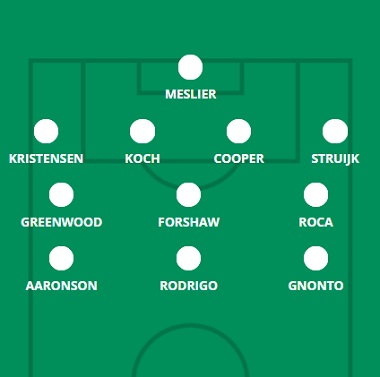
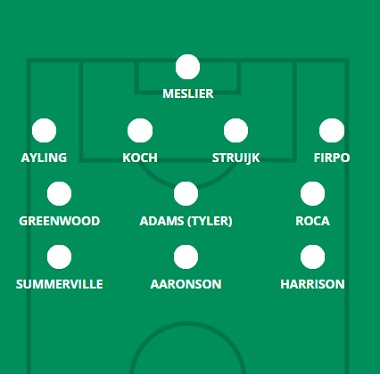
16/20

diff --git a/chelsea.html b/chelsea.html
@@ -63,15 +63,15 @@
     <hgroup>
         <h1> Provável Escalação</h1>
         <h2 class="direita"> por FabioVascão </h2>
-        <h3 class="direita"> Atualizado em 24/Novembro/2022 </h3>
+        <h3 class="direita"> Atualizado em 30/Novembro/2022 </h3>
     </hgroup>
 
     <div class="selecao"><p><b><img src="images/logos/chelsea.png" width="100rem" height="100rem"/> Chelsea</b></p></div>
        
     <div class="escalacao">
         <div class="topo">
-            <h2 class="titulo">Ultimas Notícias</h2> <h4><p> Armando Broja (ACL), N'Golo Kante (coxa), Ruben Loftus-Cheek (panturrilha), Ben Chilwell (coxa) e Wesley Fofana (joelho) estão todos na lista de lesionados do Chelsea, enquanto Hakim Ziyech e Mateo Kovacic não ainda voltou para o oeste de Londres depois de sua longa campanha na Copa do Mundo e também não estará disponível na 17ª rodada. Houve alguns comentários positivos de Graham Potter sobre Reece James, pelo menos, com o chefe do Chelsea dizendo que o lateral esteve envolvido no treinamento e conseguiu 65 minutos em um amistoso contra o Brentford no meio da semana. A ausência de menção a Kepa Arrizabalaga (pé) e Mason Mount (panturrilha) durante o resumo das lesões também é uma boa notícia, com relatos sugerindo que a dupla esteve envolvida em treinamento. Em mais um reforço a Kepa, o treinador do Chelsea disse que Edouard Mendy só teve “alguns dias a treinar connosco”, pelo que o espanhol pode recuperar o seu lugar entre os postes frente aos Cherries. A ausência de Kovacic, Kante e Loftus-Cheek pode persuadir Potter a optar por um meio-campo de três homens para dar a Jorginho mais apoio no meio, com Carney Chukwuemeka e Denis Zakaria como alternativas a Conor Gallagher e Mount. Christian Pulisic é outra opção mais avançada depois de uma Copa do Mundo decente com os EUA, enquanto Lewis Hall, Thiago Silva e Cesar Azpilicueta são possibilidades na defesa. </p></h4><br>
-            <h4><strong>Dúvidas:</strong> Broja, Kanté, Kepa, Chilwell, Chukwuemeka, Fofana, Ziyech e Loftus-Cheek. </h4>
+            <h2 class="titulo">Ultimas Notícias</h2> <h4><p> Reece James (joelho) juntou-se a Armando Broja (ACL), N'Golo Kante (coxa) e Wesley Fofana (joelho) na lista de lesões do Chelsea, enquanto permanece a dúvida sobre a disponibilidade de Ruben Loftus-Cheek (panturrilha) e Ben Chilwell ( isquiotibiais): embora a dupla tenha sido avistada no campo de treinamento no meio da semana, eles ficaram fora dos gramados por quase dois meses e não terão condições físicas para o jogo, mesmo que agora estejam livres de lesões. Dois jogadores que podem voltar à disputa são Hakim Ziyech e Mateo Kovacic, que receberam uma pausa pós-Copa do Mundo de Graham Potter após suas corridas para o play-off do terceiro lugar, mas que agora estão de volta à grama em Cobham. Todos nós sabemos o quanto Potter adora mexer com seu time: na última semana de três jogos na Premier League, apenas quatro jogadores de linha começaram cada partida. Mas os Blues enfrentaram uma reviravolta brutal de domingo-quarta-sábado nas semanas de jogo 11-13, e desta vez eles receberam uma programação muito mais generosa de terça-domingo-quinta-feira, com muito tempo de recuperação antes do confronto com o Manchester City. na Gameweek 19. As mudanças podem ser menos aqui do que após a vitória convincente sobre o Bournemouth, com jogadores como Pierre-Emerick Aubameyang, Conor Gallagher e Trevoh Chalobah esperando que não seja o caso. Potter será forçado a pelo menos uma alteração, sendo Cesar Azpilicueta o favorito para substituir o lesionado James na lateral-direita. </p></h4><br>
+            <h4><strong>Dúvidas:</strong> Broja, Chilwell, Fofana, James (Reece), Kanté e Loftus-Cheek. </h4>
         </div>
         <aside>
             <figure>

diff --git a/leeds.html b/leeds.html
@@ -63,15 +63,15 @@
     <hgroup>
         <h1> Provável Escalação</h1>
         <h2 class="direita"> por FabioVascão </h2>
-        <h3 class="direita"> Atualizado em 24/Novembro/2022 </h3>
+        <h3 class="direita"> Atualizado em 30/Novembro/2022 </h3>
     </hgroup>
 
     <div class="selecao"><p><b><img src="images/logos/leeds.png" width="100rem" height="100rem"/> Leeds</b></p></div>
        
     <div class="escalacao">
         <div class="topo">
-            <h2 class="titulo">Ultimas Notícias</h2> <h4><p> Tyler Adams (suspenso), Stuart Dallas (joelho) e Luis Sinisterra (pé) são os únicos jogadores seniores definitivamente descartados da visita do Manchester City, mas o Leeds tem muitas preocupações em outros lugares. Illan Meslier (doença), Patrick Bamford (quadril/virilha), Crysencio Summerville (pé), Mateusz Klich (doença), Jack Harrison (virilha), Liam Cooper (panturrilha) e Rodrigo (coxa) estão todos marcados para a 17ª rodada, mas Jesse Marsch parecia otimista com a maioria de suas chances, esperando que todos eles pelo menos voltassem a treinar antes do jogo de quarta-feira. Marsch experimentou sua formação durante a Copa do Mundo, mudando de seu habitual 4-2-3-1 para um 4-3-3 nos dois últimos amistosos do meio da temporada. Cooper, Meslier e Rodrigo, você esperaria retornar ao XI inicial se estiverem totalmente aptos para a visita ao City, com uma saída Klich sobre Sam Greenwood e Harrison sobre Willy Gnonto possibilidades menos prováveis em suas respectivas posições. Luke Ayling e Joe Gelhardt estão na fila para substituir o meio-campo e o centroavante, respectivamente, se Cooper e Rodrigo não estiverem disponíveis, enquanto Joel Robles e Kristoffer Klaesson são os substitutos de Meslier se sua febre glandular o tornar incapaz de Reproduzir. Summerville pode estar perto de um retorno, mas depois de três semanas sem futebol, um substituto parece ser o cenário mais provável contra os atuais campeões.</p></h4><br>
-            <h4><strong>Dúvidas:</strong> Dallas, Gray (Archie), Sinisterra, Bamford, Cooper, Harrison, Klich, Meslier, Rodrigo,Summerville e Adams (Tyler). </h4>
+            <h2 class="titulo">Ultimas Notícias</h2> <h4><p> Stuart Dallas (joelho), Archie Gray (tornozelo) e Luis Sinisterra (pé) ainda estão lesionados e Patrick Bamford (quadril/virilha) não retornará aos treinos completos da equipe até a próxima semana, mas Tyler Adams está pelo menos de volta da suspensão depois de perder fora na quarta-feira. O Leeds foi derrotado com a reviravolta mais rápida entre as partidas nas semanas de jogo 17-18, então o período de recuperação de 65 horas pode levar a uma renovação do XI titular. Marsch, de fato, fez seis mudanças em sua escalação na última vez em que encontrou uma reviravolta de menos de três dias completos, então poderíamos ter uma carnificina na ficha de equipe em Tyneside. Crysencio Summerville e Jack Harrison podem voltar aos flancos às custas de dois dos três atacantes que iniciaram o jogo contra o City (Rodrigo, Brenden Aaronson e Willy Gnonto), com Joe Gelhardt também como opção no topo. Mateusz Klich e o retorno de Adams são alternativas descansadas na sala de máquinas, enquanto Luke Ayling, Junior Firpo e Diego Llorente são todas as possibilidades de atuar na defesa, tendo feito isso na já mencionada partida dupla da Rodada 12-13.</p></h4><br>
+            <h4><strong>Dúvidas:</strong> Dallas, Gray (Archie), Sinisterra e Bamford.</h4>
         </div>
         <aside>
             <figure>

diff --git a/united.html b/united.html
@@ -63,15 +63,15 @@
     <hgroup>
         <h1> Provável Escalação</h1>
         <h2 class="direita"> por FabioVascão </h2>
-        <h3 class="direita"> Atualizado em 24/Novembro/2022 </h3>
+        <h3 class="direita"> Atualizado em 30/Novembro/2022 </h3>
     </hgroup>
 
     <div class="selecao"><p><b><img src="images/logos/manchester-united.png" width="100rem" height="100rem"/> Manchester United</b></p></div>
        
     <div class="escalacao">
         <div class="topo">
-            <h2 class="titulo">Ultimas Notícias</h2> <h4><p> Seis dias separam a pressão da Rodada 17 de Erik ten Hag e a partida contra o Nottingham Forest, então não vamos receber as últimas notícias do time do United diretamente da boca do cavalo. O holandês foi de pouca ajuda ao enfrentar a mídia após a vitória da EFL Cup sobre o Burnley, dizendo que não sabia se Harry Maguire (doença) estaria apto ou se Lisandro Martinez e Raphael Varane estariam disponíveis após as férias pós-Copa do Mundo . Não deu nenhuma novidade sobre Diogo Dalot (coxa), que ten Hag disse ter regressado do Qatar com "algumas queixas". Não há muito debate sobre os quatro zagueiros se Varane, Martinez e Dalot ficarem de fora, enquanto Casemiro pode ter que preencher novamente o meio-campo - como fez na quarta-feira - se Maguire também for afastado. Scott McTominay e Fred estarão disponíveis para substituí-los se os serviços de Casemiro forem necessários na defesa. Christian Eriksen, Bruno Fernandes, Marcus Rashford e Anthony Martial parecem ser os escolhidos para jogar mais no ataque (se lesões/doenças permitirem), com Antony no lugar de Alejandro Garnacho, certamente uma mudança que ten Hag está pensando agora que o brasileiro tem meio hora de jogo em seu currículo após um retorno do Catar.</p></h4><br>
-            <h4><strong>Dúvidas:</strong> Dalot, Maguire, Varane e Sancho.</h4>
+            <h2 class="titulo">Ultimas Notícias</h2> <h4><p> A primeira parte da conferência de imprensa de Erik ten Hag continha muito pouco em termos de notícias da equipe, então há todas as chances de obtermos mais atualizações em outra seção embargada após o término do prazo da FPL. Além de Diogo Dalot (coxa) e Jadon Sancho (condição física), nenhum dos quais temos notícias recentes, as ausências notáveis contra o Forest foram Scott McTominay (doente), Victor Lindelof (doente) e Lisandro Martinez (pós-Copa do Mundo descanso). Martinez voltou ao treinamento do time principal em Carrington no dia seguinte, no entanto, pode estar disponível. Uma reviravolta do vencedor da Copa do Mundo provavelmente veria o meio-campo improvisado da semana 17, Luke Shaw, passar para a lateral-esquerda e Tyrell Malacia desistir, com Harry Maguire - ele mesmo voltando de uma doença - outra possibilidade de jogar na mão esquerda lado da defesa central se Martinez não estiver pronto. Alejandro Garnacho e Anthony Elanga são os reforços novatos mais avançados que provavelmente terão muito tempo de jogo como substitutos, pelo menos nas semanas 18 e 19, com as reviravoltas apertadas certamente levando à gestão de minutos para os regulares e a lesão -propenso Anthony Martial em particular. Fred e, se apto, McTominay também são opções na sala de máquinas, caso as pernas cansadas precisem ser controladas durante os jogos.</p></h4><br>
+            <h4><strong>Dúvidas:</strong> Dalot, Martínez, McTominay, Lindelof e Sancho.</h4>
         </div>
         <aside>
             <figure>

diff --git a/fulham.html b/fulham.html
@@ -63,15 +63,15 @@
     <hgroup>
         <h1> Provável Escalação</h1>
         <h2 class="direita"> por FabioVascão </h2>
-        <h3 class="direita"> Atualizado em 24/Novembro/2022 </h3>
+        <h3 class="direita"> Atualizado em 30/Novembro/2022 </h3>
     </hgroup>
 
     <div class="selecao"><p><b><img src="images/logos/fulham.png" width="80rem" height="90rem"/> Fulham</b></p></div>
        
     <div class="escalacao">
         <div class="topo">
-            <h2 class="titulo">Ultimas Notícias</h2> <h4><p> Neeskens Kebano (Aquiles) permanece de fora, enquanto Layvin Kurzawa (músculo), Antonee Robinson (pé) e Manor Solomon (condição física) são preocupações para a viagem ao Crystal Palace. Mas as grandes notícias da equipe que surgiram no acampamento do Fulham na sexta-feira foram sobre Aleksandar Mitrovic, que Marco Silva disse ser uma "dúvida" com o problema no pé que o incomodava antes da Copa do Mundo. Os comentários de Silva ("Se não for pelo Crystal Palace, será pelo próximo, espero") sugerem que há um ponto de interrogação significativo sobre o envolvimento do sérvio no Boxing Day, então Carlos Vinicius pode ter que se apresentar novamente para liderar a linha no Selhurst Park. A possível ausência de Kurzawa e Robinson fará com que Tim Ream fique de prontidão para ocupar a posição de lateral-esquerdo, enquanto isso, uma função que ele desempenhou em circunstâncias semelhantes na oitava rodada e novamente em um amistoso contra o West Ham na semana passada. Há muita competição na ala direita com Dan James e Harry Wilson de volta do dever internacional com o País de Gales, mas, se estamos tentando pegar alguma pista daquele chute final contra os Hammers, podemos ver Bobby DeCordova-Reid jogando à frente de Kenny Tete por aquele flanco.</p></h4><br>
-            <h4><strong>Dúvidas:</strong> Kebano, Kurzawa, Mitrovic, Robinson e Solomon. </h4>
+            <h2 class="titulo">Ultimas Notícias</h2> <h4><p> Neeskens Kebano (Aquiles), Layvin Kurzawa (condição física) e Manor Solomon (condição física) permanecem de fora, mas não houve novas preocupações reveladas na prensa de Marco Silva. Os Cottagers têm duas partidas em pouco mais de 72 horas para negociar, mas com uma pausa de cinco dias após o Boxing Day, uma partida em que os níveis de energia foram preservados contra os nove homens do Crystal Palace, as mudanças devem ser mínimas aqui. Oito jogadores do Fulham foram titulares sempre presentes, de fato, a última vez que encontramos uma semana de três jogos, com mudanças nos flancos a área de risco de rotação mais notável. E há muita competição nas laterais com os até agora nada impressionantes Dan James e Harry Wilson disponíveis para seleção, com o veterano Willian alguém que poderia ver os minutos administrados de uma forma ou de outra no Ano Novo. Tosin Adarabioyo também pode jogar no meio-campo se Issa Diop for considerado incapaz de fazer três partidas em pouco mais de uma semana. Quanto a Aleksandar Mitrovic, Silva disse que o grande sérvio "não está 100% apto", mas acrescentou que está "pronto para começar" novamente contra o Santos.</p></h4><br>
+            <h4><strong>Dúvidas:</strong> Kebano, Kurzawa e Solomon. </h4>
         </div>
         <aside>
             <figure>

diff --git a/liverpool.html b/liverpool.html
@@ -63,15 +63,15 @@
     <hgroup>
         <h1> Provável Escalação</h1>
         <h2 class="direita"> por FabioVascão </h2>
-        <h3 class="direita"> Atualizado em 24/Novembro/2022 </h3>
+        <h3 class="direita"> Atualizado em 30/Novembro/2022 </h3>
     </hgroup>
 
     <div class="selecao"><p><b><img src="images/logos/liverpool.png" width="100rem" height="100rem"/> Liverpool</b></p></div>
        
     <div class="escalacao">
         <div class="topo">
-            <h2 class="titulo">Ultimas Notícias</h2> <h4><p> Arthur (músculo), Diogo Jota (coxa) e Luis Diaz (joelho) são ausências de médio a longo prazo, enquanto Roberto Firmino (panturrilha) e James Milner (coxa) devem ficar de fora pelo menos nos próximos dois jogos e Ibrahima Konate não voltará a treinar até 27 de dezembro, após sua corrida até a final da Copa do Mundo. Trent Alexander-Arnold, que perdeu a eliminatória da EFL Cup com o Manchester City na quinta-feira por causa de um vírus, também precisará ser avaliado antes do Boxing Day, tendo treinado apenas parcialmente na sexta-feira. Alex Oxlade-Chamberlain e Fabio Carvalho parecem prestes a brigar pelo terceiro ponto de ataque em meio à crise de lesões no topo, com o último substituído pelo primeiro no intervalo da derrota na copa de quinta-feira para o City e talvez perdendo a vantagem para a 17ª rodada. uma batalha semelhante na sala de máquinas, com Jordan Henderson de volta da Inglaterra para desafiar Harvey Elliott e oferecer um pouco mais de proteção no lado direito do meio-campo contra um time do Villa impulsionado pela recente mudança gerencial. Joel Matip e Virgil van Dijk parecem ser a dupla de meio-campo em Midlands, mas nem tudo está perdido para o fora de série Joe Gomez, que pode ser solicitado a substituir o lateral-direito se Alexander-Arnold não for 'não considerado apto o suficiente para começar após a doença.</p></h4><br>
-            <h4><strong>Dúvidas:</strong> Firmino, Díaz, Konaté, Milner, Arthur, Diogo Jota, Arnold e Jones.</h4>
+            <h2 class="titulo">Ultimas Notícias</h2> <h4><p> Ibrahima Konate é o único jogador anteriormente indisponível que Jurgen Klopp receberá de volta para a visita ao Leicester, com Roberto Firmino (panturrilha), Curtis Jones (condição física) e James Milner (coxa) ainda a alguns dias de distância e Arthur (músculo), Diogo Jota (coxa) e Luis Diaz (joelho) na lista de ausentes de médio a longo prazo. A nova contratação de Cody Gakpo também é muito improvável de estar envolvida, salvo um milagre com a burocracia. Tudo isso deixa Klopp sem muito por onde escolher, e há sugestões de que ele nomeará um time inalterado para o confronto de sexta à noite. Harvey Elliott, Naby Keita, Joe Gomez, Kostas Tsimikas, Fabio Carvalho e Stefan Bajcetic estarão entre os substitutos novamente se for o caso, mas certamente veremos participações especiais da maioria daqueles contra os Foxes e talvez comece de um punhado na Gameweek 19, já que os Reds têm menos de 68 horas entre os jogos de Leicester e Brentford.</p></h4><br>
+            <h4><strong>Dúvidas:</strong> Firmino, Díaz, Milner, Arthur, Diogo Jota e Jones.</h4>
         </div>
         <aside>
             <figure>

diff --git a/newcastle.html b/newcastle.html
@@ -63,15 +63,15 @@
     <hgroup>
         <h1> Provável Escalação</h1>
         <h2 class="direita"> por FabioVascão </h2>
-        <h3 class="direita"> Atualizado em 24/Novembro/2022 </h3>
+        <h3 class="direita"> Atualizado em 30/Novembro/2022 </h3>
     </hgroup>
 
     <div class="selecao"><p><b><img src="images/logos/newcastle-united.png" width="100rem" height="100rem"/> Newcastle</b></p></div>
        
     <div class="escalacao">
         <div class="topo">
-            <h2 class="titulo">Ultimas Notícias</h2> <h4><p> É improvável que Aleksander Isak desempenhe qualquer papel no programa de jogos festivos, já que sua recuperação de uma lesão na coxa não está indo tão rápido quanto se pensava inicialmente. Paul Dummett (panturrilha) e Emil Krafth (joelho) continuam de fora, entretanto, com a dupla não tendo participado dos amistosos do meio da temporada. Todos os internacionais do Newcastle voltaram ilesos da Copa do Mundo, ao que parece, com o XI titular na eliminatória da copa no meio da semana contra o Bournemouth tendo uma notável semelhança com a forma como esperávamos que os Magpies se alinhassem no Leicester. Também foi, por acaso, o mesmo time que venceu o Chelsea na 16ª rodada, com exceção de Callum Wilson para Chris Wood no topo. Pessoas como Matt Targett, Jonjo Shelvey, Jacob Murphy e Allan Saint-Maximin provavelmente terão que se contentar com papéis substitutos, exceto quaisquer novas lesões, então, com Howe insinuando mais participações especiais para Saint-Maximin ao dizer aos repórteres que o clube estava " construindo-o, fitness sábio".</p></h4><br>
-            <h4><strong>Dúvidas:</strong> Dummett, Krafth e Isak.</h4>
+            <h2 class="titulo">Ultimas Notícias</h2> <h4><p> Eddie Howe confirmou que Alexander Isak (coxa), Jonjo Shelvey (panturrilha) e Emil Krafth (joelho) permanecem afastados, mas a grande notícia que queríamos do chefe do Newcastle dizia respeito a Callum Wilson (doença), sobre quem Howe deu as atualizações mais breves. O técnico dos Magpies disse que Wilson havia "melhorado" e treinado no dia anterior, acrescentando que estava "em um lugar melhor" - mas não se pronunciou sobre se o internacional da Inglaterra seria capaz de começar ou até mesmo ir para o banco contra Leeds. O dinheiro inteligente provavelmente estaria em um começo de Chris Wood e uma participação especial de Wilson no segundo tempo, especialmente com o jogo do Arsenal chegando. Howe fez apenas uma alteração em seus XIs iniciais na última vez em que enfrentou uma semana de três jogos na Premier League, portanto, com os Magpies em alta e tendo 48 horas extras de recuperação em comparação com seus oponentes, não haverá um tonelada de mudanças (se houver) na véspera de Ano Novo. Ryan Fraser, Jacob Murphy e Allan Saint-Maximin são alternativas no flanco se os minutos precisam ser administrados, com Matt Targett também fresco na lateral-esquerda, mas Howe pode procurar fazer mudanças no jogo em vez de interromper uma fórmula vencedora de começo.</p></h4><br>
+            <h4><strong>Dúvidas:</strong> Dummett, Krafth, Shelvey, Wilson e Isak.</h4>
         </div>
         <aside>
             <figure>

diff --git a/bourne.html b/bourne.html
@@ -63,15 +63,15 @@
     <hgroup>
         <h1> Provável Escalação</h1>
         <h2 class="direita"> por FabioVascão </h2>
-        <h3 class="direita"> Atualizado em 24/Novembro/2022 </h3>
+        <h3 class="direita"> Atualizado em 30/Novembro/2022 </h3>
     </hgroup>
 
     <div class="selecao"><p><b><img src="images/logos/bourne.png" width="100rem" height="100rem"/> Bournemouth</b></p></div>
        
     <div class="escalacao">
         <div class="topo">
-            <h2 class="titulo">Ultimas Notícias</h2> <h4><p> Vítimas de lesões de longa data, Murara Neto e David Brooks (ambos na coxa) permanecem de fora, mas Lloyd Kelly está apto novamente, com uma chamada a ser feita em seu envolvimento contra o Chelsea. Um vírus varreu o acampamento Cherries antes do empate da EFL Cup contra o Newcastle na terça-feira, com Joe Rothwell e Ben Pearson verificados como dois dos jogadores afetados, mas nenhuma atualização fornecida sobre eles desde então. Jefferson Lerma e Marcus Tavernier também perderam o jogo da copa com lesões leves, mas Gary O'Neil disse que o primeiro "deve estar bem" na imprensa de sexta-feira, tendo "mais chances" do que Tavernier, que "não é tão avançado". Ryan Christie estará disponível para substituir Tavernier caso Tavernier perca e O'Neil mantenha a configuração 4-4-2 que ajudou a derrotar o Everton por 3-0 na Rodada 16, embora o agora chefe permanente do Cherries possa jogar Jack Stacey ou Ryan Fredericks e prossiga com um sistema lateral em Stamford Bridge.</p></h4><br>
-            <h4><strong>Dúvidas:</strong> Brooks, Kelly, Lerma, Neto (Murara), Pearson, Rothwell e Tavernier.</h4>
+            <h2 class="titulo">Ultimas Notícias</h2> <h4><p> O assistente do Bournemouth, Tommy Elphick, disse que os Cherries estavam "como estávamos" quando se tratava de notícias do time, então não veremos Murara Neto (coxa) e David Brooks (coxa) contra o Palace. Se esse comentário também se estende a Marcus Tavernier (coxa), Chris Mepham (doença), Ryan Fredericks ("pequeno problema") e Junior Stanislas ("pequeno problema") é outra questão, com Elphick dizendo que o clube faria um "número de ligações atrasadas" antes do jogo da véspera de Ano Novo. Um vírus está se espalhando pelo campo de Bournemouth no momento, com o chefe Gary O'Neil afetado e incapaz de levar seu presser pré-jogo, então há mais do que um pouco de incerteza sobre quem poderá entrar em campo contra Patrick tropas de Vieira. Taticamente, com o Palace no meio da tabela como adversário, O'Neil pode optar por uma formação mais ousada do que o 5-3-2 que usou no Chelsea, talvez restabelecendo o 4-4-2 das partidas anteriores. Ryan Christie e Jaidon Anthony esperam uma olhada se isso acontecer, com Jack Stacey o provável peso-pesado como o defensor excedente.</p></h4><br>
+            <h4><strong>Dúvidas:</strong> Brooks, Fredericks, Mepham, Neto (Murara), Stanislas e Tavernier.</h4>
         </div>
         <aside>
             <figure>

diff --git a/brighton.html b/brighton.html
@@ -63,15 +63,15 @@
     <hgroup>
         <h1> Provável Escalação</h1>
         <h2 class="direita"> por FabioVascão </h2>
-        <h3 class="direita"> Atualizado em 24/Novembro/2022 </h3>
+        <h3 class="direita"> Atualizado em 30/Novembro/2022 </h3>
     </hgroup>
 
     <div class="selecao"><p><b><img src="images/logos/brighton.png" width="100rem" height="100rem"/> Brighton</b></p></div>
        
     <div class="escalacao">
         <div class="topo">
-            <h2 class="titulo">Ultimas Notícias</h2> <h4><p> Jakub Moder (joelho) continua na lista de lesionados, enquanto Adam Webster e Danny Welbeck não estarão envolvidos contra o Southampton por causa de lesões sofridas em um amistoso no meio da temporada. Alexis Mac Allister também parece perder as semanas de jogo 17 e 18, com os Seagulls confirmando que lhe deram duas semanas de folga após a corrida dele e da Argentina até a final da Copa do Mundo. Levi Colwill impressionou ao substituir Webster nesta temporada e parece pronto para fazer parceria com Lewis Dunk na defesa, enquanto Leandro Trossard parece ser o favorito para liderar a linha na ausência de Welbeck, com o júri ainda de fora do titular da EFL Cup, Denis Undav. Com Mac Allister indisponível, podemos ver o versátil Pascal Gross movido para algo mais parecido com uma posição natural após seu recente flerte como lateral; novamente, é duvidoso que Billy Gilmour fosse jogado no St Mary's depois que ele mal apareceu na liga antes deste ponto. Quase todos os outros titulares nesta escalação prevista parecem ser os escolhidos, com a única dúvida sendo sobre qual Joel Veltman ou Tariq Lamptey será o lateral-direito. Foi Lamptey quem teve a chance de impressionar contra Charlton e impressionar na maior parte do tempo, talvez dando a ele a vantagem para o Boxing Day.</p></h4><br>
-            <h4><strong>Dúvidas:</strong> Mac Allister, Moder, Mwepu, Webster e Welbeck. </h4>
+            <h2 class="titulo">Ultimas Notícias</h2> <h4><p> Jakub Moder (joelho) continua na lista de lesionados, enquanto Adam Webster e Danny Welbeck (ambos músculos) ainda estão a alguns dias de uma recuperação. Além disso, Alexis Mac Allister continua de licença pós-Copa do Mundo e Moises Caicedo fica de fora por suspensão, então Roberto De Zerbi está quase esgotado para a visita ao Arsenal. Billy Gilmour espera ter uma chance na casa das máquinas na ausência dos dois regulares, com a única alternativa real sendo deixar Adam Lallana um pouco mais fundo ao lado de Pascal Gross e trazer Denis Undav ou Jeremy Sarmiento mais à frente. Fora do XI previsto, nenhum membro da equipe disponível de Brighton começou uma única partida da liga nesta temporada - e isso inclui Tariq Lamptey, que continua sendo uma alternativa a Joel Veltman como lateral-direito.</p></h4><br>
+            <h4><strong>Dúvidas:</strong> Mac Allister, Moder, Mwepu, Webster, Caicedo e Welbeck. </h4>
         </div>
         <aside>
             <figure>

diff --git a/aston.html b/aston.html
@@ -63,15 +63,15 @@
     <hgroup>
         <h1> Provável Escalação</h1>
         <h2 class="direita"> por FabioVascão </h2>
-        <h3 class="direita"> Atualizado em 24/Novembro/2022 </h3>
+        <h3 class="direita"> Atualizado em 30/Novembro/2022 </h3>
     </hgroup>
 
     <div class="selecao"><p><b><img src="images/logos/aston-villa.png" width="100rem" height="100rem"/> Aston Villa</b></p></div>
        
     <div class="escalacao">
         <div class="topo">
-            <h2 class="titulo">Ultimas Notícias</h2> <h4><p> Emi Martinez ficará de fora do jogo contra o Liverpool por causa de um retorno tardio da Copa do Mundo, mas o substituto Robin Olsen deve estar em forma após uma pequena lesão. Diego Carlos (Aquiles) e Jacob Ramsey (coxa) também estão afastados, enquanto Philippe Coutinho (músculo) voltou a treinar após alguns meses e pode entrar na disputa. Unai Emery usou um 4-2-2-2 desde sua nomeação, mantendo-se com Ollie Watkins e Leon Bailey como seus dois atacantes titulares nos últimos três amistosos oficiais do meio da temporada, apesar de algumas contribuições de Danny Ings. John McGinn e Emi Buendia também tiveram destaque nas partidas de aquecimento, com Ramsey fora e Coutinho apenas retornando, enquanto Emery parece estar procedendo com um duplo seis de Boubacar Kamara e Douglas Luiz na frente de um quatro recuado. A única dúvida sobre a defesa é o retorno tardio de Matty Cash da Copa do Mundo, mas o internacional polonês conseguiu meia hora como reserva contra o Villarreal em meados de dezembro, com o amistoso a portas fechadas no Everton (que não tem alguma informação sobre escalação) presumivelmente oferecendo a ele mais uma chance de aumentar seus níveis de condicionamento físico.</p></h4><br>
-            <h4><strong>Dúvidas:</strong> Diego Carlos, Martinez, Olsen e Ramsey.</h4>
+            <h2 class="titulo">Ultimas Notícias</h2> <h4><p> Diego Carlos (Aquiles) e Jacob Ramsey (coxa) ainda estão afastados, mas Emiliano Martinez deve retornar ao time titular após sua pausa pós-Copa do Mundo, enquanto outro jogador no Catar, Matty Cash, espera substituir Ashley Young como lateral-direito após um banco da Rodada 17. Com Ramsey fora e Philippe Coutinho aquém do jogo, John McGinn e Emi Buendia esperam manter seus lugares para a viagem a Londres. Há um pouco menos de certeza no topo, no entanto, com Danny Ings batendo na porta de seu gerente depois de uma noite desperdiçada na frente do gol de Leon Bailey contra o Liverpool. O que Bailey oferece em abundância é ritmo e pressão na frente, algo que Ings pode ter dificuldade em fazer por períodos prolongados contra um time que pode dominar a bola.</p></h4><br>
+            <h4><strong>Dúvidas:</strong> Diego Carlos e Ramsey.</h4>
         </div>
         <aside>
             <figure>

diff --git a/nforest.html b/nforest.html
@@ -63,7 +63,7 @@
     <hgroup>
         <h1> Provável Escalação</h1>
         <h2 class="direita"> por FabioVascão </h2>
-        <h3 class="direita"> Atualizado em 24/Novembro/2022 </h3>
+        <h3 class="direita"> Atualizado em 30/Novembro/2022 </h3>
     </hgroup>
 
     <div class="selecao"><p><b><img src="images/logos/nforest.png" width="100rem" height="100rem"/> N. Forest</b></p></div>
